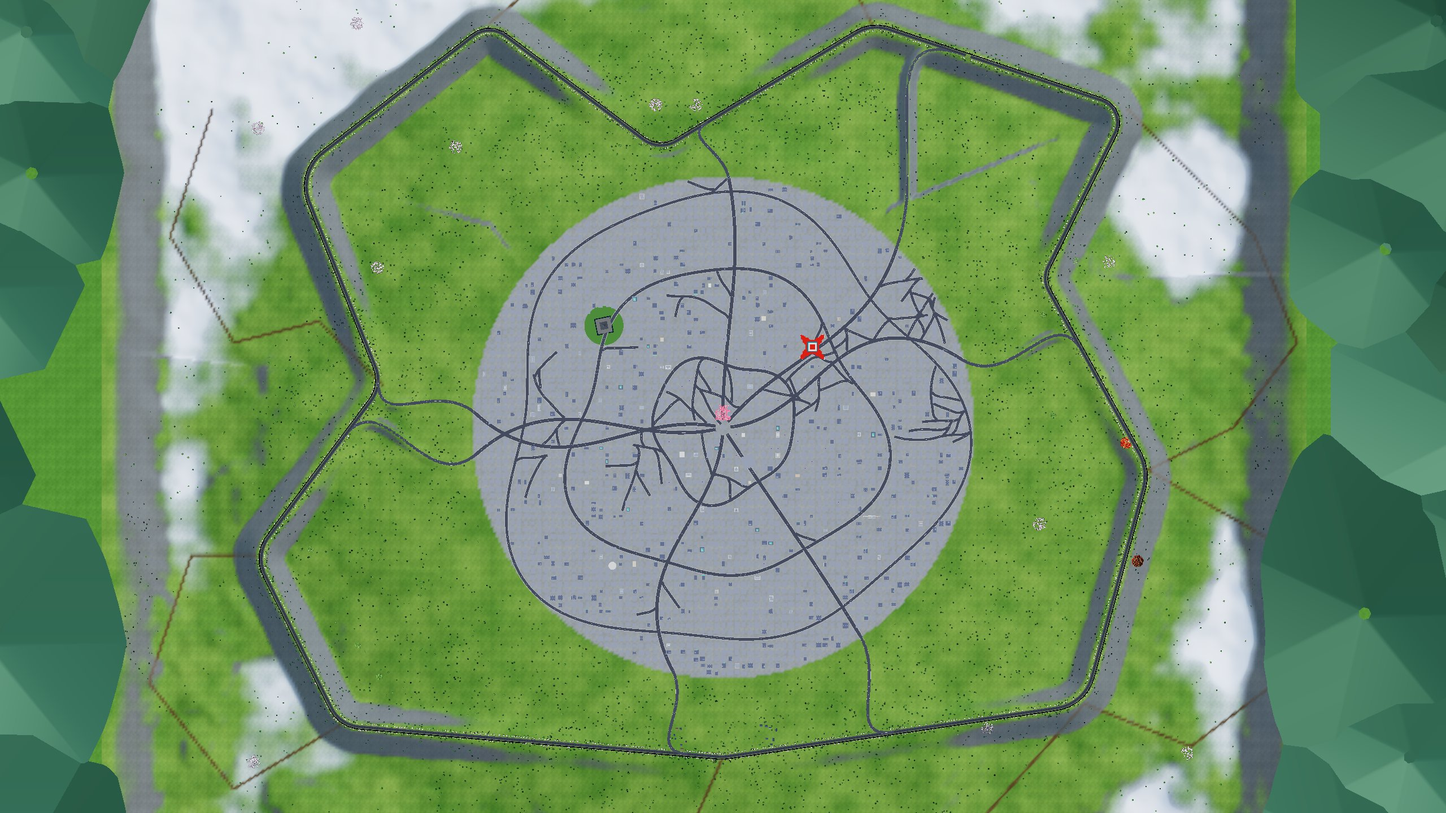
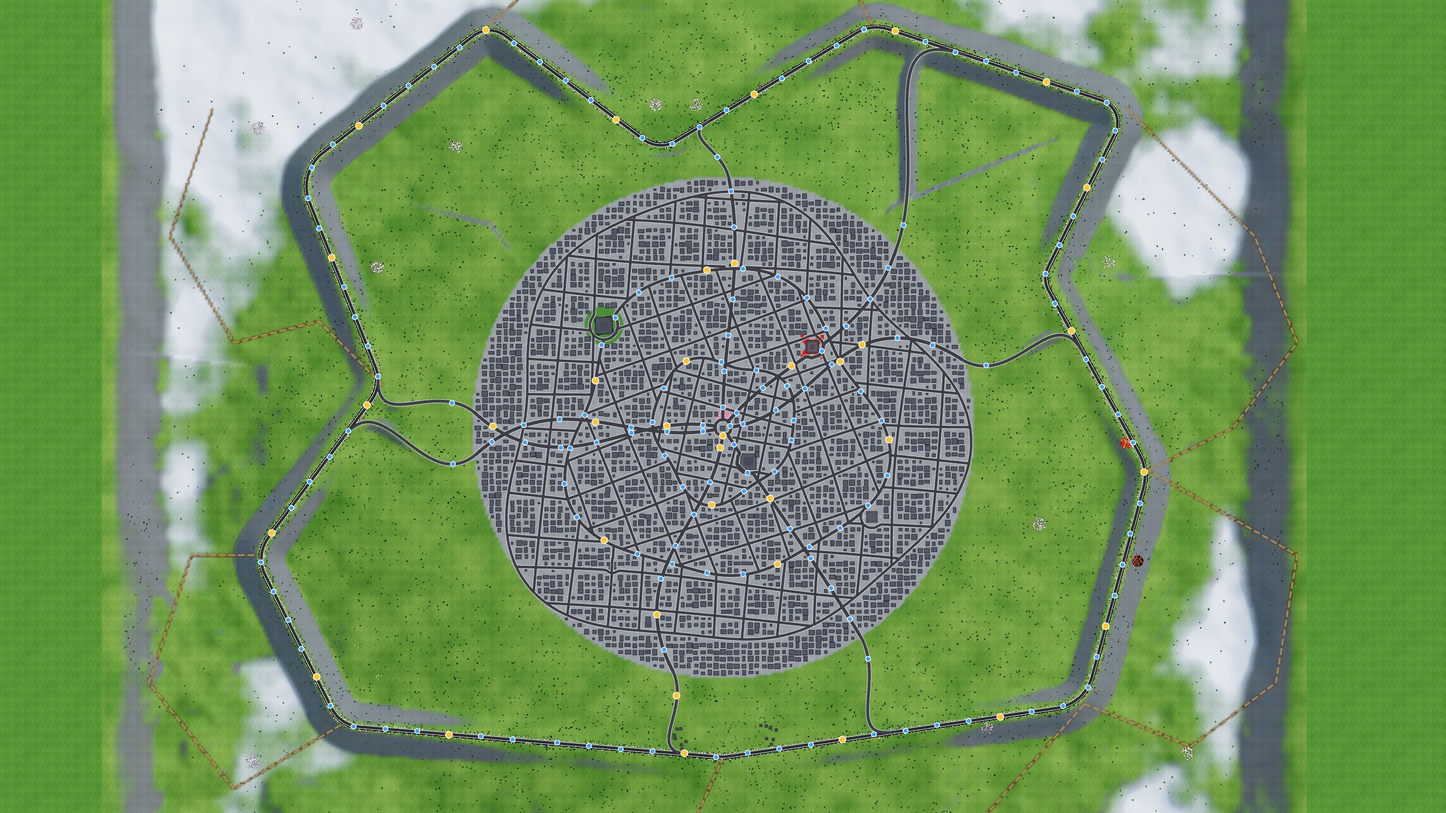
Free drive: a joined-up street grid, new map picture
- Streets: a roundabout where the avenues meet, and between the ring roads a gently
  curving grid of local streets (each district at its own angle) running ring road to
  ring road across the avenues, so every street joins the rest; streets round landmarks
- Teleporting prefers proper roads (a dirt trail only if you pick a spot right on it)
- Re-rendered map picture: the view from above with the road map, buildings and nitro
- Test: the street network has no dead ends and keeps off the landmarks

Claude-Session: https://claude.ai/code/session_018nyKuL9pZFAxC8ZWRyZZb9

diff --git a/src/world/World.ts b/src/world/World.ts
@@ -245,7 +245,22 @@ function townPickups(streets: Street[], connectors: [number, number, number][][]
 
 /** The nearest point on any road to (x, z), heading along the road. */
 function roadNear(roads: FreeRoad[], x: number, z: number): { x: number; z: number; heading: number } {
-  let best = { x, z, heading: 0 };
+  // A proper road, unless you picked a spot right on a dirt trail (they climb steep hillsides).
+  const paved = nearestOn(
+    roads.filter((r) => r.kind !== 'trail'),
+    x,
+    z,
+  );
+  const trail = nearestOn(
+    roads.filter((r) => r.kind === 'trail'),
+    x,
+    z,
+  );
+  return trail.d < 40 && trail.d < paved.d ? trail : paved;
+}
+
+function nearestOn(roads: FreeRoad[], x: number, z: number): { x: number; z: number; heading: number; d: number } {
+  let best = { x, z, heading: 0, d: Infinity };
   let bestD = Infinity;
   for (const road of roads) {
     const P = road.pts;
@@ -260,7 +275,7 @@ function roadNear(roads: FreeRoad[], x: number, z: number): { x: number; z: numb
       const d = (x - px) ** 2 + (z - pz) ** 2;
       if (d < bestD) {
         bestD = d;
-        best = { x: px, z: pz, heading: Math.atan2(dx, dz) };
+        best = { x: px, z: pz, heading: Math.atan2(dx, dz), d: Math.sqrt(d) };
       }
     }
   }
@@ -439,14 +454,14 @@ export function streetNetwork(R: number, rng: () => number, reserved: { x: numbe
     }
   };
   /** Is (x, z) within r of the edge of any street (other than `skip`)? */
-  const near = (x: number, z: number, r: number, skip = -1) => {
+  const near = (x: number, z: number, r: number, skip = -1, only = -1) => {
     const reach = Math.ceil((r + 20) / CELL);
     const ci = Math.floor(x / CELL);
     const cj = Math.floor(z / CELL);
     for (let i = ci - reach; i <= ci + reach; i++)
       for (let j = cj - reach; j <= cj + reach; j++)
         for (const [ax, az, bx, bz, w, id] of grid.get(key(i, j)) ?? []) {
-          if (id === skip) continue;
+          if (id === skip || (only >= 0 && id !== only)) continue;
           const dx = bx - ax;
           const dz = bz - az;
           const t = Math.max(0, Math.min(1, ((x - ax) * dx + (z - az) * dz) / (dx * dx + dz * dz || 1)));
@@ -471,58 +486,121 @@ export function streetNetwork(R: number, rng: () => number, reserved: { x: numbe
     }
     add({ pts: skirt(pts), width: 16, lines: true });
   }
-  // Wobbly ring roads.
-  for (const [r, w] of [
+  // A roundabout where the avenues meet in the middle of town.
+  add({
+    pts: Array.from({ length: 64 }, (_, i): [number, number] => [Math.cos((i / 63) * Math.PI * 2) * 38, Math.sin((i / 63) * Math.PI * 2) * 38]),
+    width: 14,
+    lines: true,
+  });
+  // Wobbly ring roads (their radius at any angle is known, so the local streets can meet them).
+  const RINGS: [number, number][] = [
     [330, 14],
     [720, 14],
     [1050, 12],
-  ]) {
-    const ph = rng() * 6;
+  ];
+  const phases: number[] = [];
+  const ringAt = (k: number, a: number) => RINGS[k][0] * (1 + 0.08 * Math.sin(3 * a + phases[k]) + 0.05 * Math.sin(5 * a + phases[k] * 2));
+  RINGS.forEach(([, w], k) => {
+    phases.push(rng() * 6);
     const pts: [number, number][] = [];
     for (let a = 0; a <= Math.PI * 2 + 0.01; a += 0.015) {
-      const rr = r * (1 + 0.08 * Math.sin(3 * a + ph) + 0.05 * Math.sin(5 * a + ph * 2));
+      const rr = ringAt(k, a);
       pts.push([Math.cos(a) * rr, Math.sin(a) * rr]);
     }
     add({ pts: skirt(pts), width: w, lines: true });
-  }
-  // Winding side streets: they leave a bigger street at an angle, wander, and stop when they meet
-  // another street or reach the edge of town.
-  for (let n = 0; n < 120; n++) {
-    const from = streets[Math.floor(rng() * streets.length)];
-    const i = 1 + Math.floor(rng() * (from.pts.length - 2));
-    const [px, pz] = from.pts[i];
-    const tx = from.pts[i + 1][0] - from.pts[i - 1][0];
-    const tz = from.pts[i + 1][1] - from.pts[i - 1][1];
-    // Leave the bigger street in a smooth curve: start nearly along it, then swing away.
-    const side = rng() < 0.5 ? 1 : -1;
-    const along = Math.atan2(tz, tx) + (rng() < 0.5 ? 0 : Math.PI);
-    const target = along + side * (Math.PI / 2 + (rng() - 0.5) * 0.8) * (rng() < 0.5 ? 1 : 0.6);
-    let heading = along + side * 0.35;
-    let x = px + Math.cos(along + (side * Math.PI) / 2) * (from.width / 2 - 1);
-    let z = pz + Math.sin(along + (side * Math.PI) / 2) * (from.width / 2 - 1);
-    const id = streets.length;
-    const pts: [number, number][] = [[px, pz]];
-    const length = 90 + rng() * 300;
-    let turn = (rng() - 0.5) * 0.02;
-    let ok = true;
-    for (let s = 0; s < length; s += 6) {
-      if (rng() < 0.04) turn = (rng() - 0.5) * 0.06;
-      // Ease round onto the new heading over the first ~40 m.
-      if (s < 48) heading += (target - heading) * 0.16;
-      heading += turn + (rng() - 0.5) * 0.03;
-      x += Math.cos(heading) * 6;
-      z += Math.sin(heading) * 6;
-      pts.push([x, z]);
-      if (Math.hypot(x, z) > R - 12 || inLandmark(x, z, 8)) break;
-      // Joined another street: end here (a junction).
-      if (s > 48 && near(x, z, 2, id)) break;
-      // Too close alongside another street without meeting it: drop this one.
-      if (s > 30 && s <= 48 && near(x, z, 9, id)) {
-        ok = false;
-        break;
+  });
+  const arterials = streets.length;
+  /** Inside the band between ring k - 1 and ring k (the middle of town for k = 0)? */
+  const inBand = (k: number, x: number, z: number) => {
+    const a = Math.atan2(z, x);
+    const r = Math.hypot(x, z);
+    return r < ringAt(k, a) && (k === 0 || r > ringAt(k - 1, a));
+  };
+  /** Near (within `r` of the edge of) one of the avenues or ring roads? */
+  const nearArterial = (x: number, z: number, r: number) => {
+    for (let id = 0; id < arterials; id++) if (near(x, z, r, -1, id)) return true;
+    return false;
+  };
+
+  // Local streets: in each band between the ring roads, a gently curving grid (each band at its
+  // own angle, like the districts of a real city). Every street runs from ring road to ring road,
+  // crossing the avenues on the way, so they all join up: no dead ends.
+  RINGS.forEach((_, k) => {
+    const spacing = k === 0 ? 120 : 165;
+    const angle = rng() * Math.PI;
+    const outer = RINGS[k][0] * 1.15;
+    for (const turn of [0, Math.PI / 2]) {
+      const dx = Math.cos(angle + turn);
+      const dz = Math.sin(angle + turn);
+      const shift = rng() * spacing;
+      for (let c = -outer + shift; c < outer; c += spacing) {
+        // A long, slow curve along the line (different on each).
+        const bend = 10 + rng() * 14;
+        const wave = 260 + rng() * 260;
+        const ph = rng() * 6;
+        const at = (t: number): [number, number] => {
+          const off = c + Math.sin(t / wave + ph) * bend;
+          return [-dz * off + dx * t, dx * off + dz * t];
+        };
+        let run: [number, number][] = [];
+        let prev: [number, number] | null = null;
+        let prevIn = false;
+        let close = 0;
+        const finish = () => {
+          if (run.length > 1) addLocal(run);
+          run = [];
+        };
+        for (let t = -outer; t <= outer; t += 6) {
+          const p = at(t);
+          const inside = inBand(k, p[0], p[1]);
+          if (inside && !prevIn && prev) run.push(edgePoint(k, prev, p, true));
+          if (inside) {
+            // Running alongside an avenue for a while (not just crossing it): no street there.
+            close = nearArterial(p[0], p[1], 4) ? close + 1 : 0;
+            if (close > 10) finish();
+            else run.push(p);
+          }
+          if (!inside && prevIn && prev) {
+            run.push(edgePoint(k, prev, p, false));
+            finish();
+          }
+          prev = p;
+          prevIn = inside;
+        }
+        finish();
       }
     }
-    if (ok && pts.length > 6) add({ pts, width: 12, lines: true });
+  });
+
+  /** Where the line from `a` to `b` crosses the edge of band k (the ring road's centre line). */
+  function edgePoint(k: number, a: [number, number], b: [number, number], entering: boolean): [number, number] {
+    let lo = a;
+    let hi = b;
+    for (let i = 0; i < 12; i++) {
+      const m: [number, number] = [(lo[0] + hi[0]) / 2, (lo[1] + hi[1]) / 2];
+      if (inBand(k, m[0], m[1]) === entering) hi = m;
+      else lo = m;
+    }
+    return hi;
+  }
+
+  /** Add a local street, unless it's a sliver hugging a ring road or too short to matter. */
+  function addLocal(run: [number, number][]): void {
+    const length = run.reduce((sum, p, i) => (i ? sum + Math.hypot(p[0] - run[i - 1][0], p[1] - run[i - 1][1]) : 0), 0);
+    if (length < 60) return;
+    // Every point within 30 m of a ring road: it's squeezed between the ring and the band edge.
+    if (run.every(([x, z]) => nearArterial(x, z, 30))) return;
+    if (run.some(([x, z]) => inLandmark(x, z, 6))) {
+      // Round the landmark, smoothly.
+      skirt(run);
+      for (let pass = 0; pass < 4; pass++) {
+        for (let i = 1; i + 1 < run.length; i++) {
+          run[i] = [(run[i - 1][0] + run[i][0] * 2 + run[i + 1][0]) / 4, (run[i - 1][1] + run[i][1] * 2 + run[i + 1][1]) / 4];
+        }
+        skirt(run);
+      }
+    }
+    add({ pts: run, width: 12, lines: true });
   }
 
   // Ribbons: asphalt, pavements (broken at junctions) and centre dashes.

diff --git a/tests/streets.test.ts b/tests/streets.test.ts
@@ -1,0 +1,40 @@
+import { describe, expect, it } from 'vitest';
+import { createRng } from '../src/core/math';
+import { streetNetwork } from '../src/world/World';
+
+describe('free drive streets', () => {
+  const R = 1180;
+  const t0 = performance.now();
+  const net = streetNetwork(R, createRng(77), [{ x: 420, z: -380, r: 52 }]);
+  const ms = performance.now() - t0;
+
+  it('is a joined-up network: every street ends on another street (or at the edge of town)', () => {
+    expect(ms).toBeLessThan(5000);
+    expect(net.streets.length).toBeGreaterThan(40);
+    // (Loops have no ends.)
+    const open = net.streets
+      .map((s, id) => ({ s, id }))
+      .filter(({ s }) => Math.hypot(s.pts[0][0] - s.pts[s.pts.length - 1][0], s.pts[0][1] - s.pts[s.pts.length - 1][1]) > 5);
+    const ends = open.flatMap(({ s, id }) => [s.pts[0], s.pts[s.pts.length - 1]].map((p) => ({ p, id })));
+    let dead = 0;
+    for (const { p, id } of ends) {
+      const [x, z] = p;
+      if (Math.hypot(x, z) > R - 40) continue;
+      // Another street's road surface within a few metres of this end.
+      const joined = net.streets.some((s, j) => j !== id && s.pts.some((q, i) => i > 0 && segDist(x, z, s.pts[i - 1], q) < s.width / 2 + 5));
+      if (!joined) dead++;
+    }
+    expect(dead).toBeLessThanOrEqual(2);
+  });
+
+  it('keeps streets off the landmarks', () => {
+    for (const s of net.streets) for (const [x, z] of s.pts) expect(Math.hypot(x - 420, z + 380)).toBeGreaterThan(51);
+  });
+});
+
+function segDist(x: number, z: number, a: [number, number], b: [number, number]): number {
+  const dx = b[0] - a[0];
+  const dz = b[1] - a[1];
+  const t = Math.max(0, Math.min(1, ((x - a[0]) * dx + (z - a[1]) * dz) / (dx * dx + dz * dz || 1)));
+  return Math.hypot(x - a[0] - dx * t, z - a[1] - dz * t);
+}

diff --git a/README.md b/README.md
@@ -10,8 +10,9 @@ countryside, by day, at sunset or at night — running in the browser and hosted
   and a day / sunset / night choice. *Back* returns to the choice.
 - **Free drive (Forza-style):** unlocks once you've finished 3 career events (any position; the
   *Free Drive* cards on Home and Play show your progress, e.g. 2/3). Then drive anywhere on a big
-  open map: a city in a basin (winding streets, avenues, Tokyo Tower, the Skytree, a castle, a big wheel
-  and supertall towers), a ring road round it joined by slip roads from the avenues, mountains all
+  open map: a city in a basin (avenues meeting at a central roundabout, three ring roads,
+  and between them a gently curving grid of streets, each district at its own angle, every street
+  joined to the rest; Tokyo Tower, the Skytree, a castle, a big wheel and supertall towers), a ring road round it joined by slip roads from the avenues, mountains all
   round and dirt trails through the hills. You can leave the road anywhere: the car sits on the
   ground exactly as it's drawn (pitching and rolling with it, and flying off crests), rock faces
   are too steep to climb, and buildings, landmarks, houses, tree trunks and the edge of the map are
